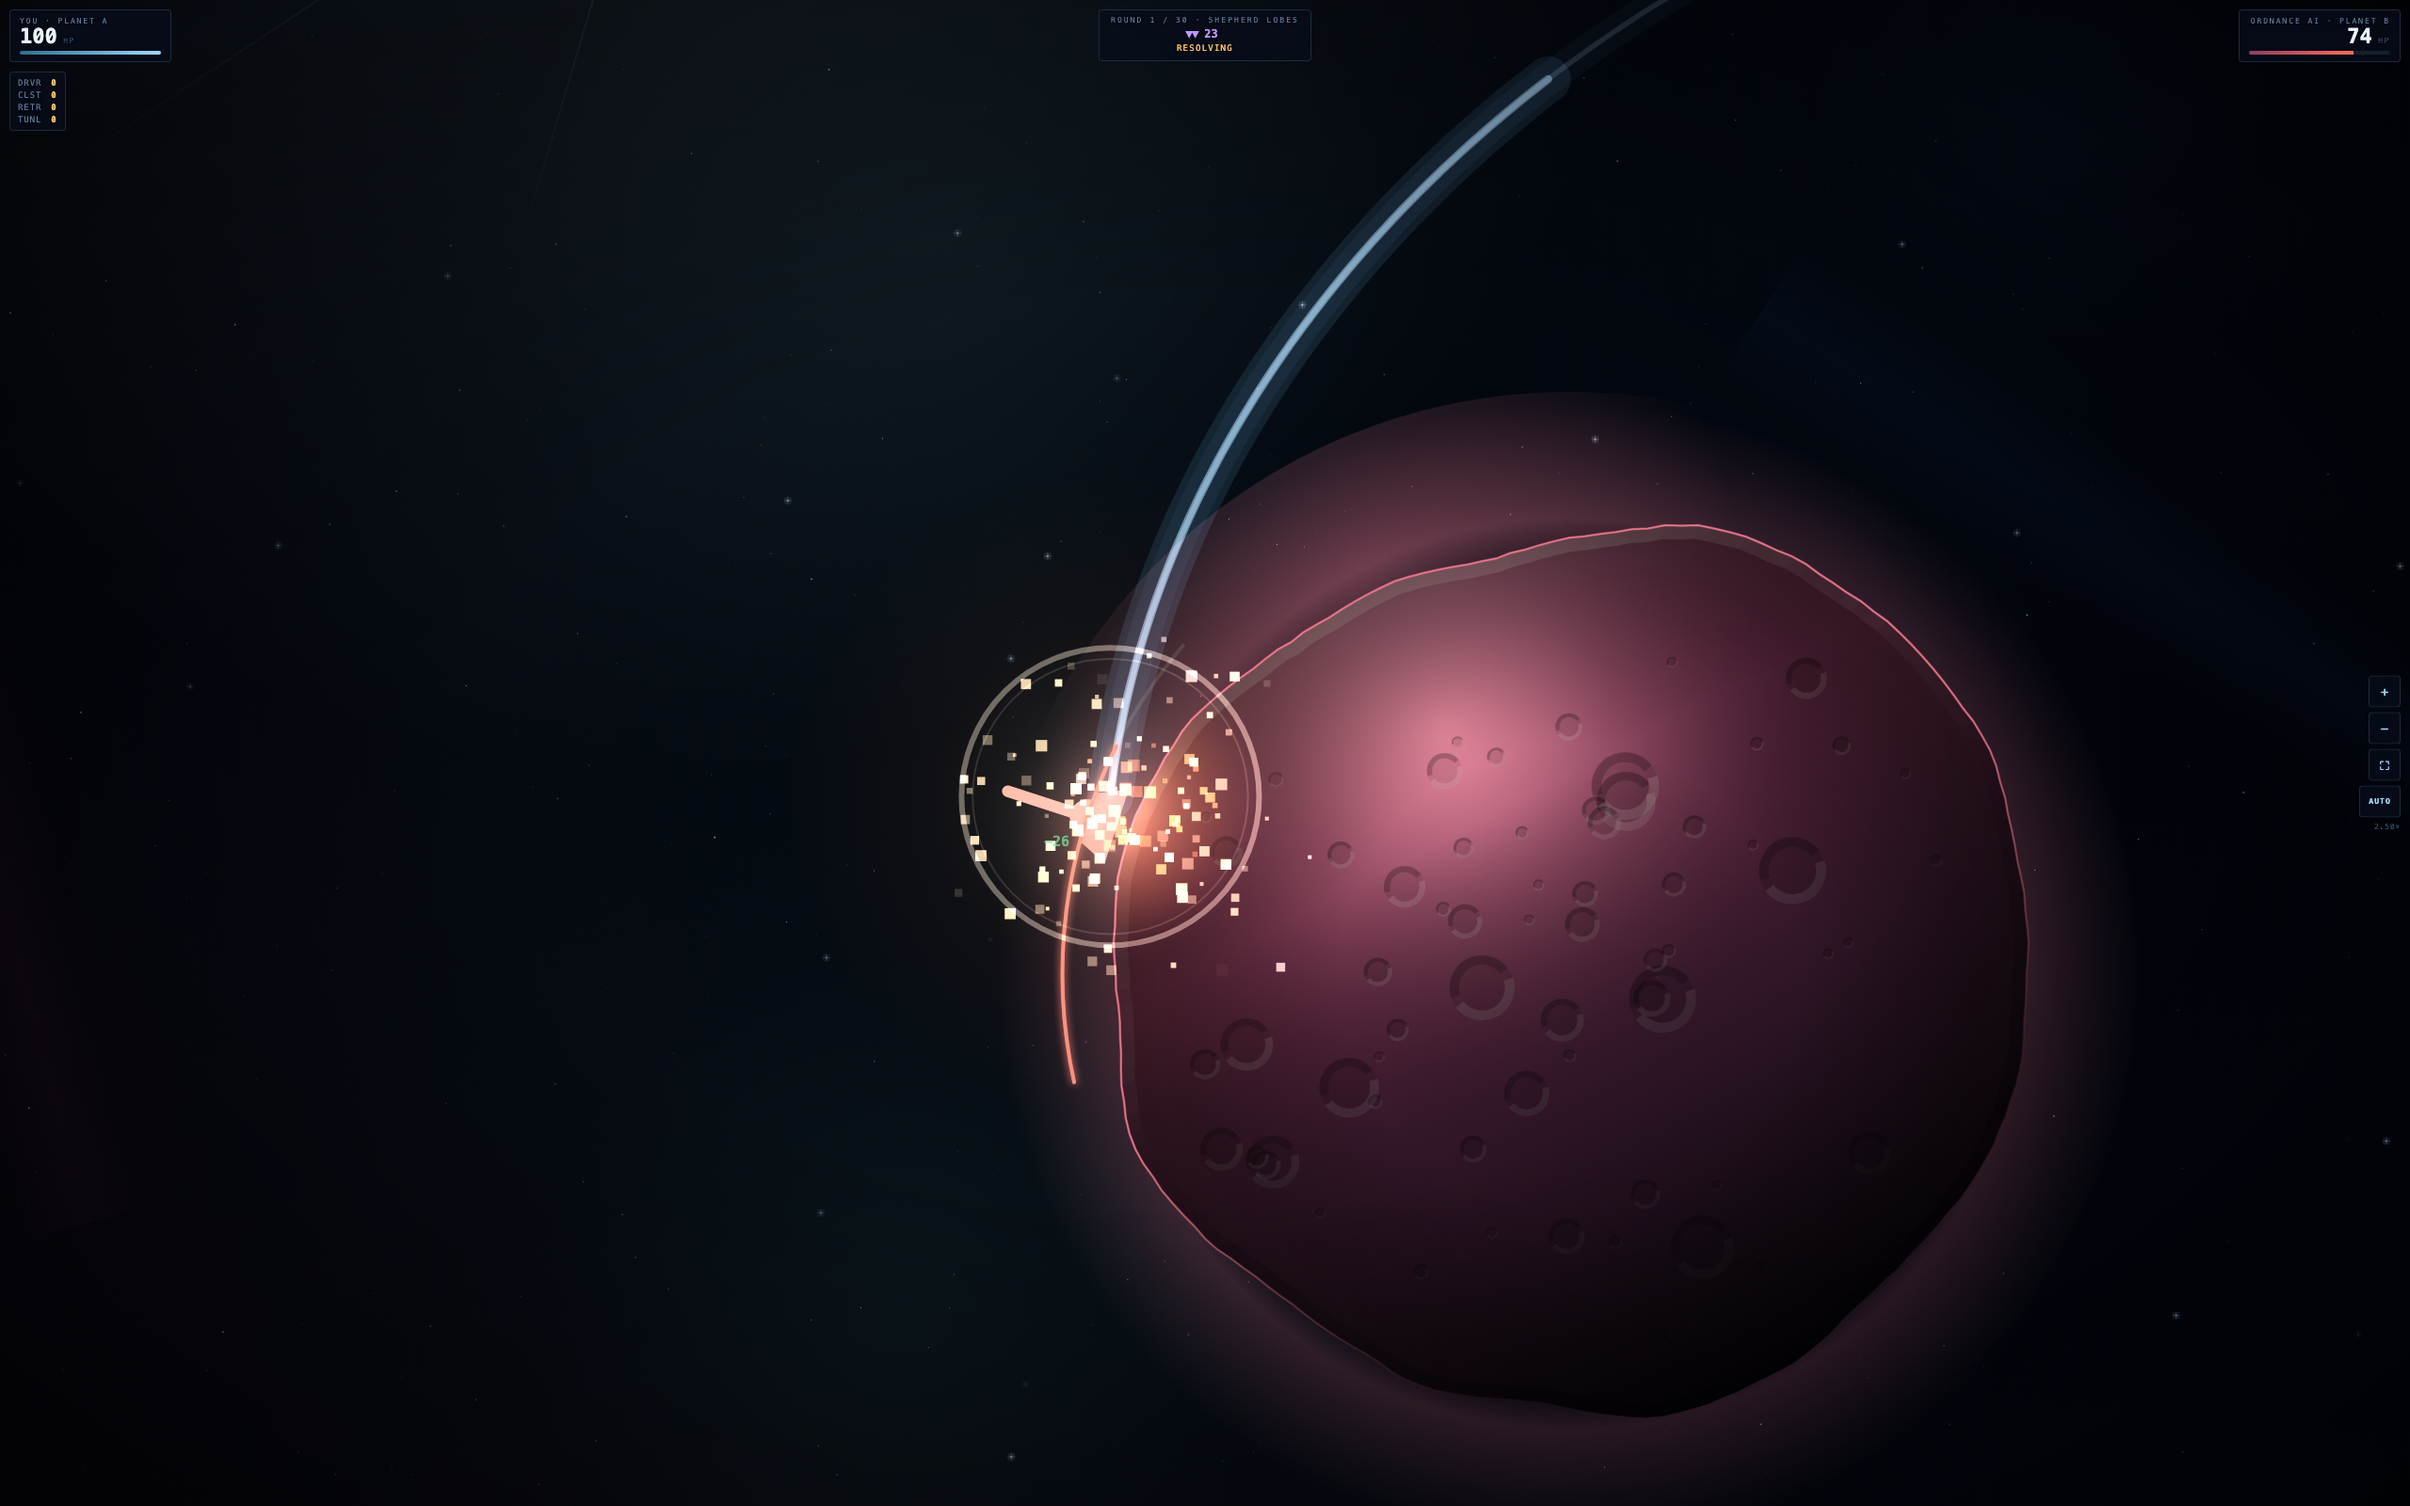
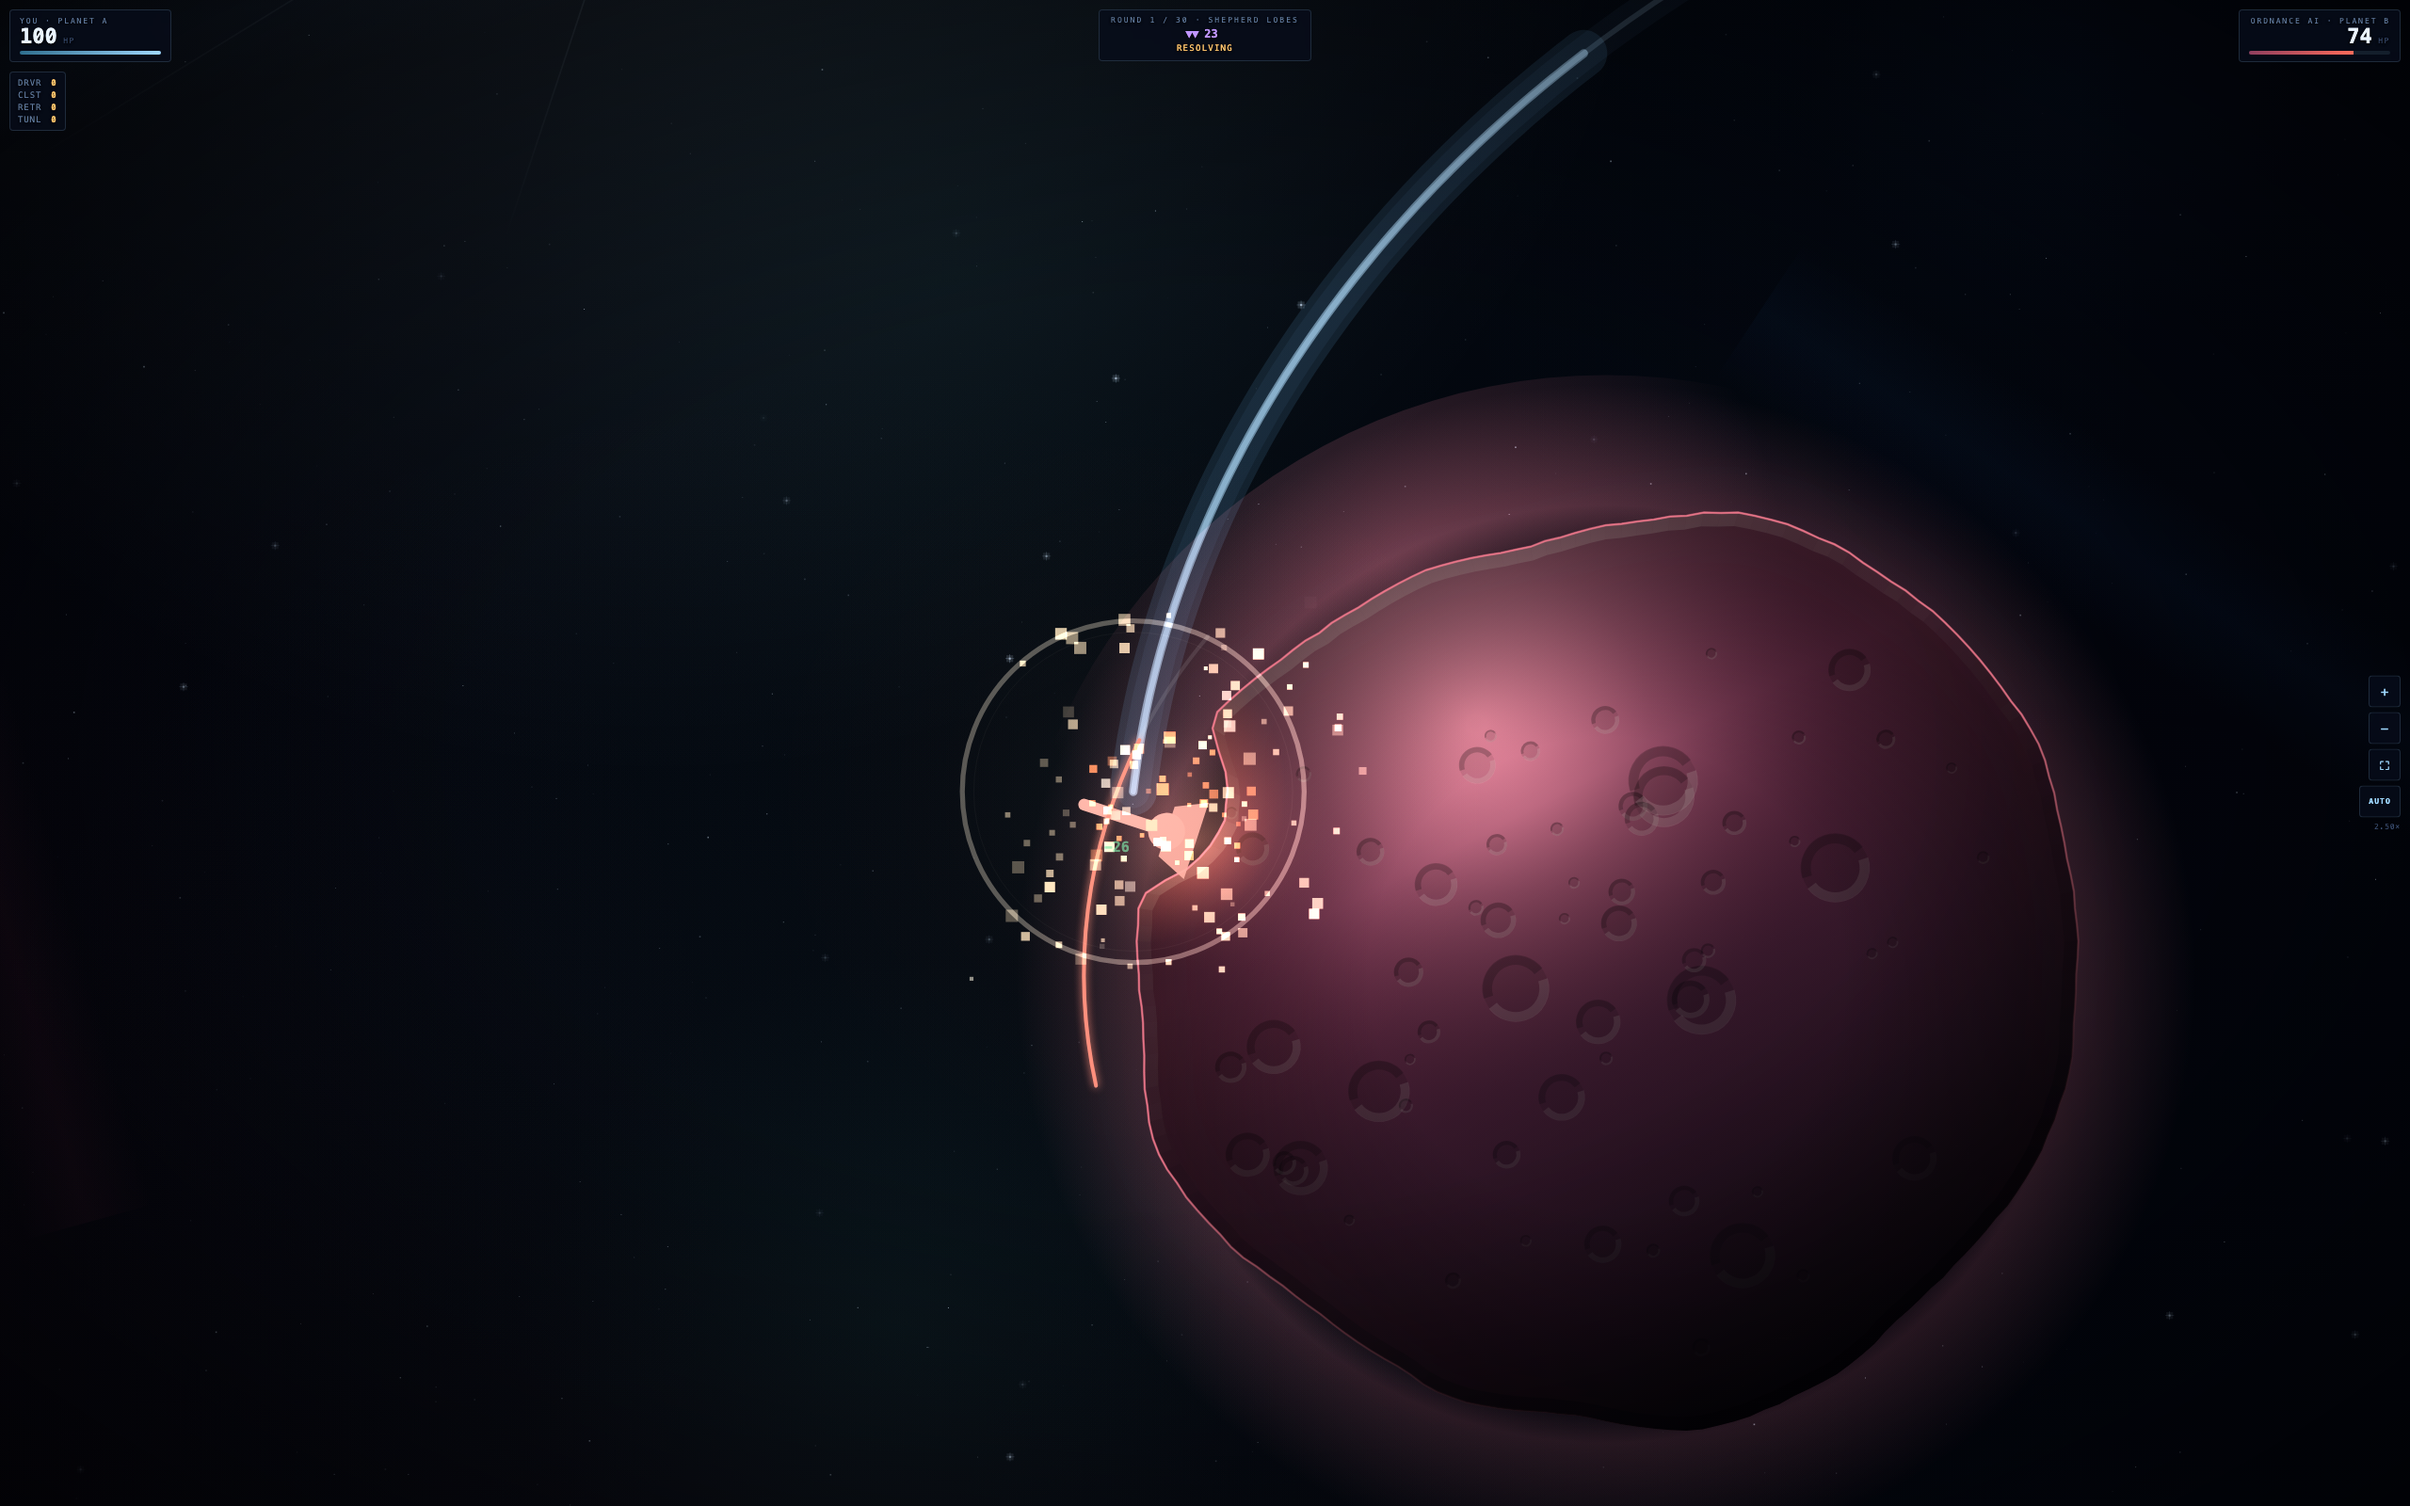
ROCHE: the planet now breaks under the flash. Round playback previously animated over the pre-round world and only adopted the resolved one — craters, HP, dead pods — when the animation finished, so damage appeared seconds after the impact that caused it. The resolver's timeline events now carry the

diff --git a/games/roche.html b/games/roche.html
@@ -679,7 +679,10 @@ function resolveRound(world,orders,roundSeed){
     }
   }
   function boom(x,y,WD,owner,directSeat,t,tag){
-    tl.booms.push({t:t,x:x,y:y,r:WD.r,w:WD.slug,tag:tag||''});
+    /* the event carries its own consequences so the playback can apply them at
+       the moment it draws the flash - see stageBoom() in the renderer */
+    var ev={t:t,x:x,y:y,r:WD.r,w:WD.slug,tag:tag||'',dl:null,pk:null};
+    tl.booms.push(ev);
     for(var sd=0;sd<2;sd++){
       if(w.tanks[sd].hp<=0)continue;
       var p=tpos(sd,t), dd=hyp(p.x-x,p.y-y);
@@ -696,13 +699,25 @@ function resolveRound(world,orders,roundSeed){
       if(sd===owner)stats[owner].self+=dmg;
       else{stats[owner].dealt+=dmg;stats[owner].hits++;if(directSeat===sd)stats[owner].direct++;}
     }
+    var b0=w.d[0].slice(), b1=w.d[1].slice(), ii;
     carve(x,y,WD.r);
-    var kept=[];
+    var dl=[];
+    for(ii=0;ii<NST;ii++){
+      if(w.d[0][ii]!==b0[ii])dl.push(0,ii,w.d[0][ii]);
+      if(w.d[1][ii]!==b1[ii])dl.push(1,ii,w.d[1][ii]);
+    }
+    ev.dl=dl;
+    var kept=[],pk=[];
     for(var q=0;q<w.pods.length;q++){
       var pd=w.pods[q], pp=surfPt(w,pd.p,pd.c,6);
-      if(hyp(pp.x-x,pp.y-y)<WD.r*0.85){tl.booms.push({t:t,x:pp.x,y:pp.y,r:28,w:'pod',tag:'pod'});continue;}
+      if(hyp(pp.x-x,pp.y-y)<WD.r*0.85){
+        tl.booms.push({t:t,x:pp.x,y:pp.y,r:28,w:'pod',tag:'pod',dl:null,pk:null});
+        pk.push(pd.p,pd.c);
+        continue;
+      }
       kept.push(pd);
     }
+    ev.pk=pk;
     w.pods=kept;
   }
 
@@ -858,6 +873,17 @@ function resolveRound(world,orders,roundSeed){
   for(i=0;i<2;i++){
     if(map.spin[i]){ w.rot[i]=(w.rot[i]+map.spin[i])%3600; tl.spun[i]=map.spin[i]; }
   }
+
+  /* everything the playback cannot derive from the events: where the tanks
+     ended up, what was collected and dropped, the round and the spin. Applied
+     as the last staged step so the staged world lands exactly on this one. */
+  tl.final={round:w.round,rot:[w.rot[0],w.rot[1]],
+    tanks:[0,1].map(function(s2){
+      var t2=w.tanks[s2];
+      return {c:t2.c,hp:t2.hp,inv:{driver:t2.inv.driver,cluster:t2.inv.cluster,
+        retro:t2.inv.retro,tunneler:t2.inv.tunneler}};
+    }),
+    pods:w.pods.map(function(p){return {c:p.c,p:p.p,w:p.w,n:p.n};})};
 
   var h0=w.tanks[0].hp,h1=w.tanks[1].hp,over=false,winner=null,draw=false;
   if(h0<=0&&h1<=0){over=true;draw=true;}
@@ -1914,7 +1940,7 @@ var G={
   wind:0,hpShow:[MAX_HP,MAX_HP],leadShell:null,lastEvent:null,ghost:null,
   cpu:null,hotOrders:[null,null],hotSeat:0,orders:null,afterReplay:null,
   tot:[{dealt:0,shots:0,hits:0,direct:0,self:0},{dealt:0,shots:0,hits:0,direct:0,self:0}],
-  rounds:0,scoreSent:false,overDone:false,ach:[],ev:null,toastT:0,
+  rounds:0,scoreSent:false,overDone:false,ach:[],ev:null,toastT:0,stageHash:null,authHash:null,
   names:['PLANET A','PLANET B'],
   online:{id:null,match:null,state:null,prevWorld:null,seat:0,unwatch:null,busy:false,lastSeed:null,replaying:false}
 };
@@ -2035,11 +2061,44 @@ function commitOrder(order){
     onlineSubmit(order);
   }
 }
+/* ---- render-side staging -----------------------------------------------
+   The resolver already computed every consequence and stamped it with a sim
+   time. Playback runs over a staged copy of the pre-round world that eats
+   those events as the clock passes them, so the rock breaks under the flash
+   instead of a whole round later. The authoritative world still lands at the
+   end - stageFinal makes the staged copy converge on it exactly. */
+function stageBoom(w,bm){
+  var dl=bm.dl,i,k;
+  if(dl)for(i=0;i<dl.length;i+=3)w.d[dl[i]][dl[i+1]]=dl[i+2];
+  var pk=bm.pk;
+  if(pk&&pk.length&&w.pods.length){
+    var kept=[];
+    for(i=0;i<w.pods.length;i++){
+      var gone=false;
+      for(k=0;k<pk.length;k+=2)if(pk[k]===w.pods[i].p&&pk[k+1]===w.pods[i].c)gone=true;
+      if(!gone)kept.push(w.pods[i]);
+    }
+    w.pods=kept;
+  }
+}
+function stageFinal(w,f){
+  if(!f)return;
+  w.round=f.round; w.rot=[f.rot[0],f.rot[1]];
+  for(var s=0;s<2;s++){
+    var a=w.tanks[s], b=f.tanks[s];
+    a.c=b.c; a.hp=b.hp;
+    a.inv.driver=b.inv.driver; a.inv.cluster=b.inv.cluster;
+    a.inv.retro=b.inv.retro; a.inv.tunneler=b.inv.tunneler;
+  }
+  w.pods=f.pods.map(function(p){return {c:p.c,p:p.p,w:p.w,n:p.n};});
+}
 function beginPlayback(orders){
   var rs=currentRoundSeed();
   playTimeline(resolveRound(G.world,orders,rs),orders);
 }
 function playTimeline(r,orders){
+  /* render and mutate a staging copy; r.world stays the authority */
+  G.world=cloneWorld(G.world);
   G.pending=r; G.tl=r.tl; G.playT=0; G.phase='play'; G.orders=orders;
   G.ev={b:0,h:0,f:0,s:0,co:0}; G.lastEvent=null; G.paceCur=1;
   G.ghost=null;
@@ -2090,6 +2149,7 @@ function stepPlayback(dt){
   }
   while(e.b<tl.booms.length&&tl.booms[e.b].t<=G.playT){
     var bm=tl.booms[e.b++];
+    stageBoom(G.world,bm);
     var kess=bm.tag==='kessler';
     rings.push({x:bm.x,y:bm.y,r:bm.r,l:0.7,m:0.7});
     rings.push({x:bm.x,y:bm.y,r:bm.r*0.6,l:0.42,m:0.42});
@@ -2108,6 +2168,7 @@ function stepPlayback(dt){
   while(e.h<tl.hits.length&&tl.hits[e.h].t<=G.playT){
     var ht=tl.hits[e.h++];
     G.hpShow[ht.seat]=Math.max(0,G.hpShow[ht.seat]-ht.dmg);
+    G.world.tanks[ht.seat].hp=Math.max(0,G.world.tanks[ht.seat].hp-ht.dmg);
     var tp=tankPt(G.world,ht.seat), f=frameAt(G.world,ht.seat,G.world.tanks[ht.seat].c);
     floaters.push({x:tp.x+f.ux*20,y:tp.y+f.uy*20,nx:f.ux,ny:f.uy,s:'-'+ht.dmg,l:1.2,m:1.2,
       c:ht.seat===G.mySeat?'#ff6b5a':'#7fe6a8'});
@@ -2153,7 +2214,10 @@ function finishRound(){
     var moved=r.tl.mv[0].c0!==r.tl.mv[0].c1;
     cpuLearn(G.cpu,r.stats,1,orders[0],moved);
   }
+  stageFinal(G.world,r.tl.final);
+  G.stageHash=hashWorld(G.world);
   G.world=r.world;
+  G.authHash=hashWorld(r.world);
   G.hpShow=[G.world.tanks[0].hp,G.world.tanks[1].hp];
   G.pending=null; G.tl=null;
   if(G.mode==='online'){
@@ -2776,6 +2840,8 @@ window.__roche={
     hp:G.world?[G.world.tanks[0].hp,G.world.tanks[1].hp]:null,paused:G.paused,seat:G.mySeat,
     wind:G.wind,ach:G.ach.slice(),ghost:G.ghost?G.ghost.length:0,pace:G.paceCur,
     t:G.playT,dur:G.tl?G.tl.dur:0,booms:G.ev?G.ev.b:0,shake:cam.shake,parts:parts.length,
+    whash:G.world?hashWorld(G.world):null,stageHash:G.stageHash,authHash:G.authHash,
+    pods:G.world?G.world.pods.length:0,
     cam:{x:cam.x,y:cam.y,s:cam.s,ts:cam.ts,manual:cam.manual,auto:cam.auto}};},
   serialize:function(w,pending,last,seats){
     return JSON.stringify({v:STATE_V,world:w,pending:pending||null,last:last||null,seats:seats||[null,null]});
